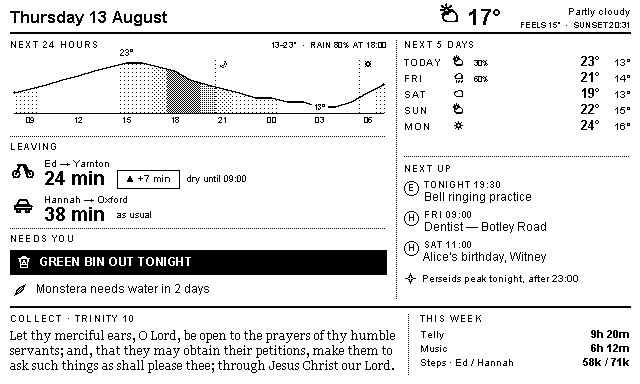
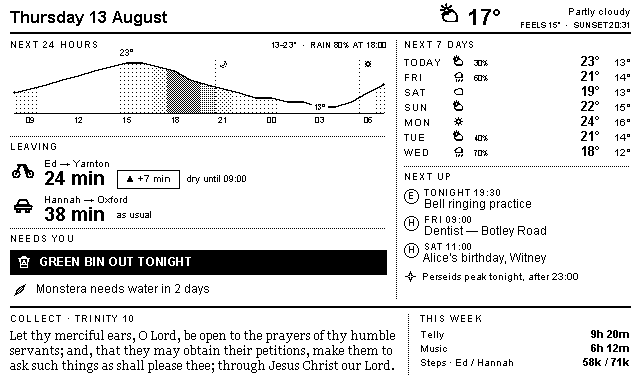
Put the seventh forecast day back on the small panel
Cutting the forecast to five days was mine, not asked for, and the seven-day
forecast was in the brief from the start. It fits: dropping the row pitch
from 16px to 15px buys both days back with 8px still spare at the bottom of
the column.

The forecast could afford that where the events could not. A forecast row is
one line -- a day, an icon and two numbers -- so 15px is comfortable against
13px type. Each event is two lines, so tightening those would have run the
badges into the titles.

diff --git a/hallway-panel/panel/render/geometry.py b/hallway-panel/panel/render/geometry.py
@@ -278,25 +278,28 @@ V1 = Geometry(
     alert_row_h=22,
     alert_bottom=304,
     alert_icon=16,
+    # Seven days, not five. The row pitch drops to 15px to buy them, which the
+    # forecast can afford -- one line of a day, an icon and two numbers -- where
+    # the events below could not, since each is two lines.
     week_eyebrow_y=48,
     week_top=66,
-    week_step=16,
-    week_days=5,
+    week_step=15,
+    week_days=7,
     week_icon_x=452,
     week_icon=13,
     week_rain_x=474,
     week_high_x=600,
-    week_rule_y=156,
-    events_eyebrow_y=172,
-    event_top=188,
-    event_step=30,
+    week_rule_y=166,
+    events_eyebrow_y=180,
+    event_top=196,
+    event_step=27,
     event_count=3,
     event_badge_r=7,
     event_text_x=424,
-    event_title_dy=14,
-    sky_icon_y=272,
-    sky_baseline=282,
-    sky_leading=13,
+    event_title_dy=13,
+    sky_icon_y=270,
+    sky_baseline=280,
+    sky_leading=12,
     sky_lines=2,
     bottom_rule_y=306,
     bottom_eyebrow_y=322,
